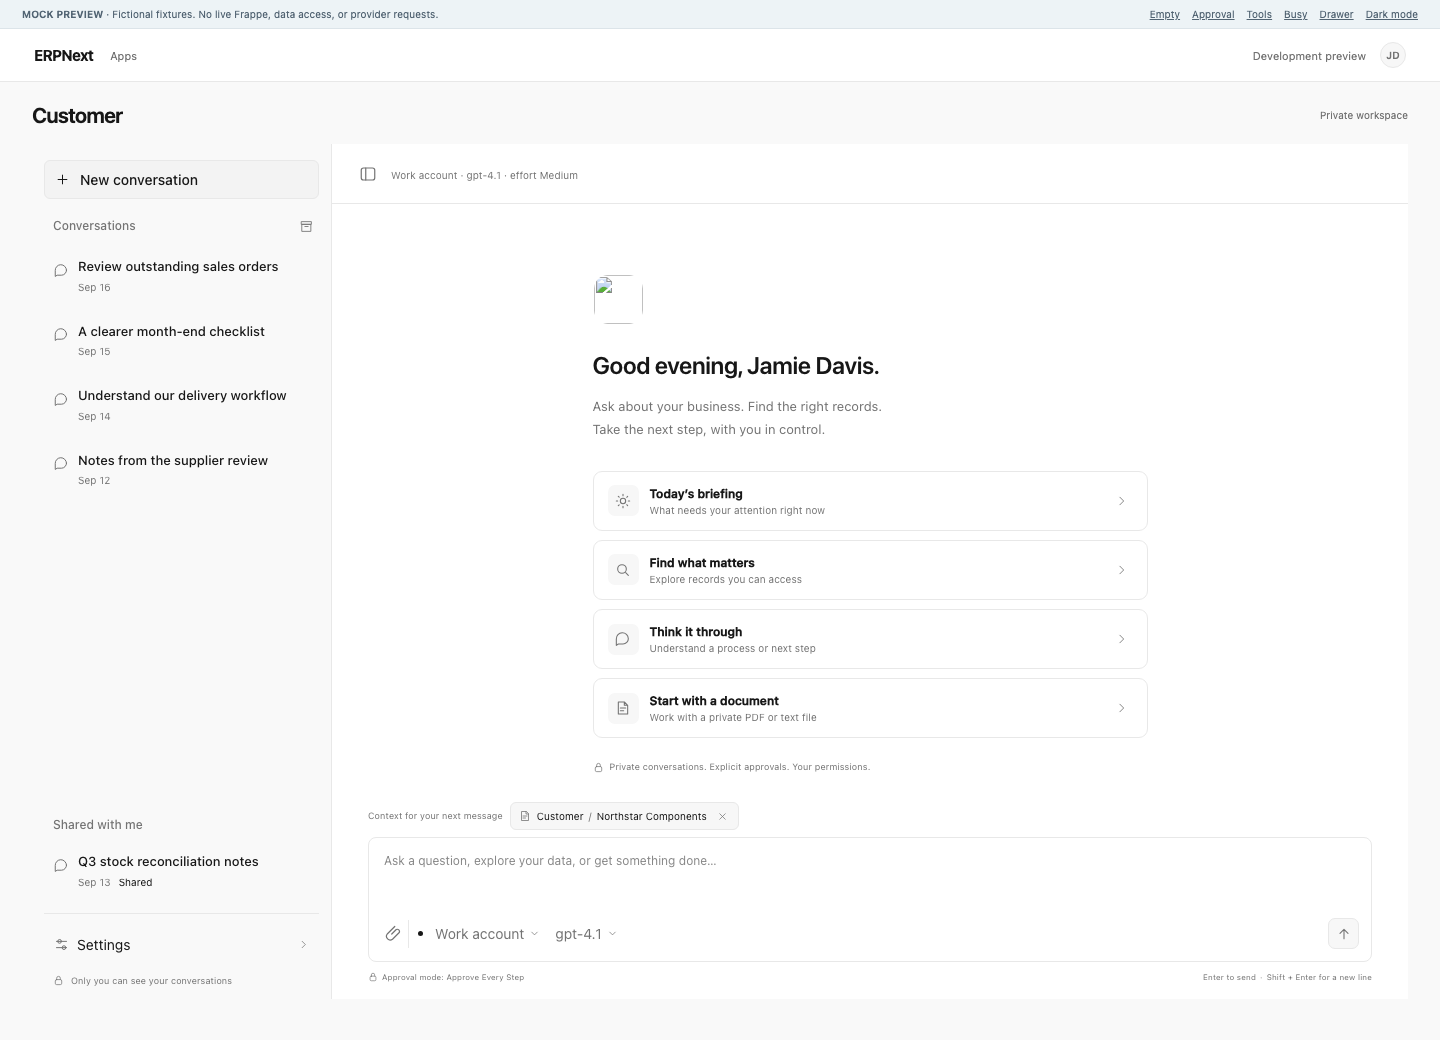
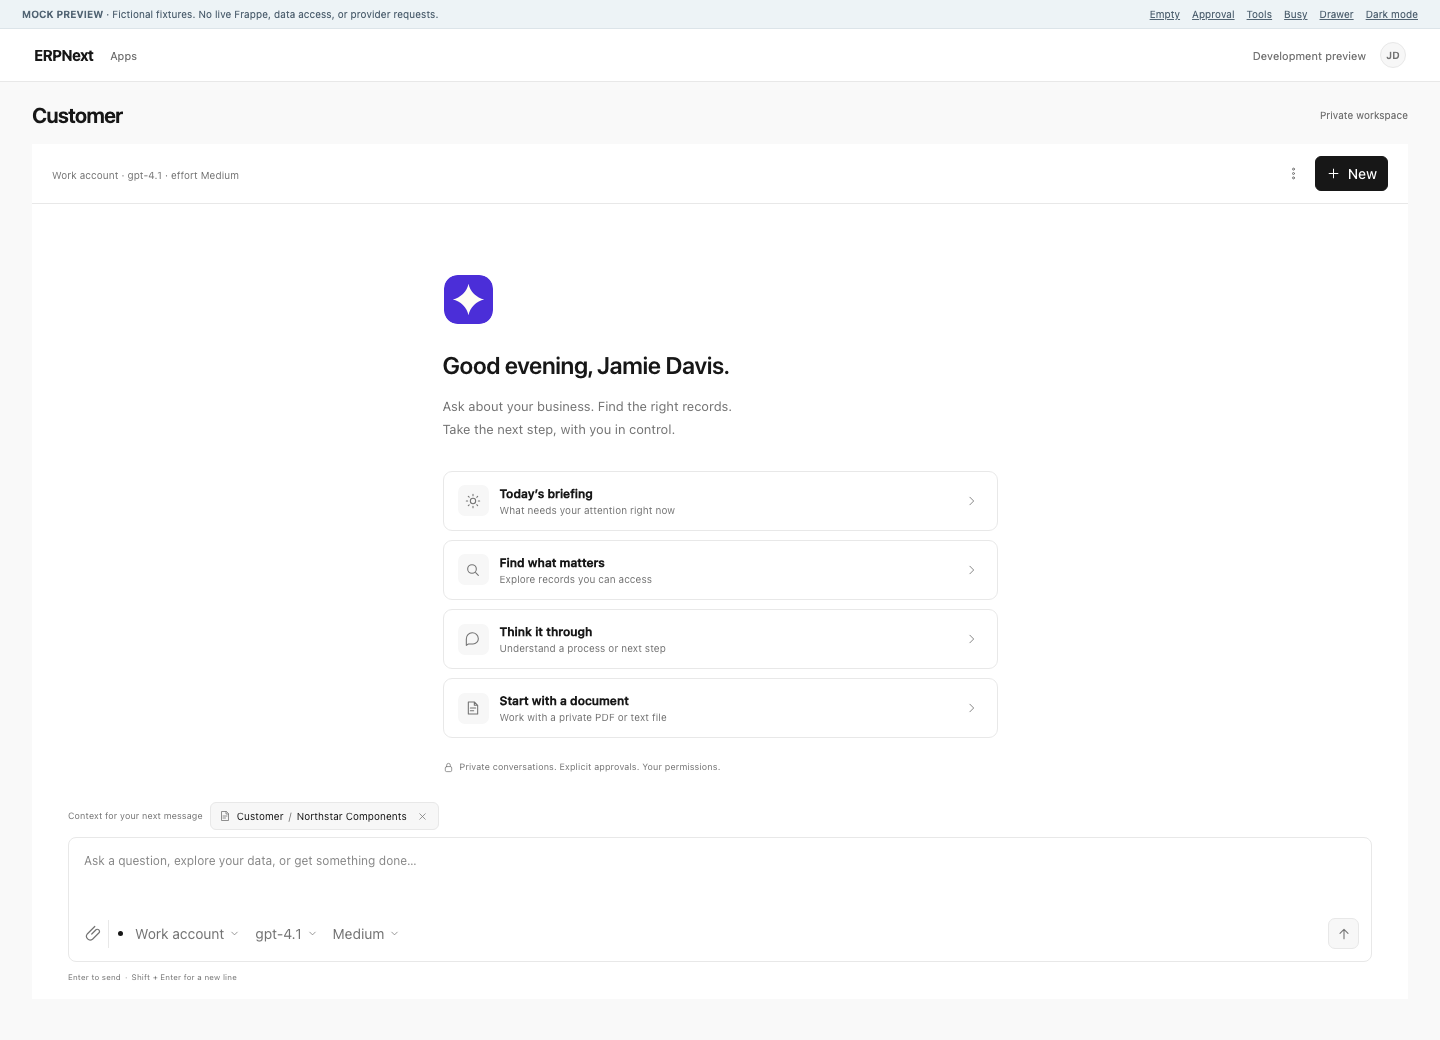
test: port the browser suites to the 0.7.0 DOM
The custom conversation sidebar is gone, so scene deep links now open
through the native /intelligence/<name> route, the mobile flow asserts
the All conversations menu action routes to the native Desk list, and
the panel suite settles on the floating popover geometry instead of the
old edge-docked shell. The preview host also serves the app logo so
captures render the real welcome mark.

diff --git a/dev/preview.html b/dev/preview.html
@@ -38,8 +38,10 @@
       document.querySelector('.mock-page-title h1').textContent = 'Customer';
       document.querySelector('#open-context').onclick = () => frappe.intelligence.toggle();
       setTimeout(() => { frappe.set_route('Form', 'Customer', 'Northstar Components'); frappe.intelligence.toggle(); }, 350);
-    } else if (preview.scene === 'approval' || preview.scene === 'tools' || preview.scene === 'busy') {
-      const open = () => { const row = document.querySelector('[data-action="select"][data-name="chat-1"]'); if (row) row.click(); else setTimeout(open, 50); }; open();
+    } else if (['approval', 'tools', 'busy', 'auto', 'bulk'].includes(preview.scene)) {
+      // Scenes open their conversation through the native deep link, the same
+      // route a Desk list row or a global-search hit lands on.
+      setTimeout(() => frappe.set_route('intelligence', 'chat-1'), 50);
     }
     document.querySelector('#theme-toggle').onclick = function () { const dark = document.documentElement.dataset.theme !== 'dark'; document.documentElement.dataset.theme = dark ? 'dark' : 'light'; this.textContent = dark ? 'Light mode' : 'Dark mode'; };
   </script>
